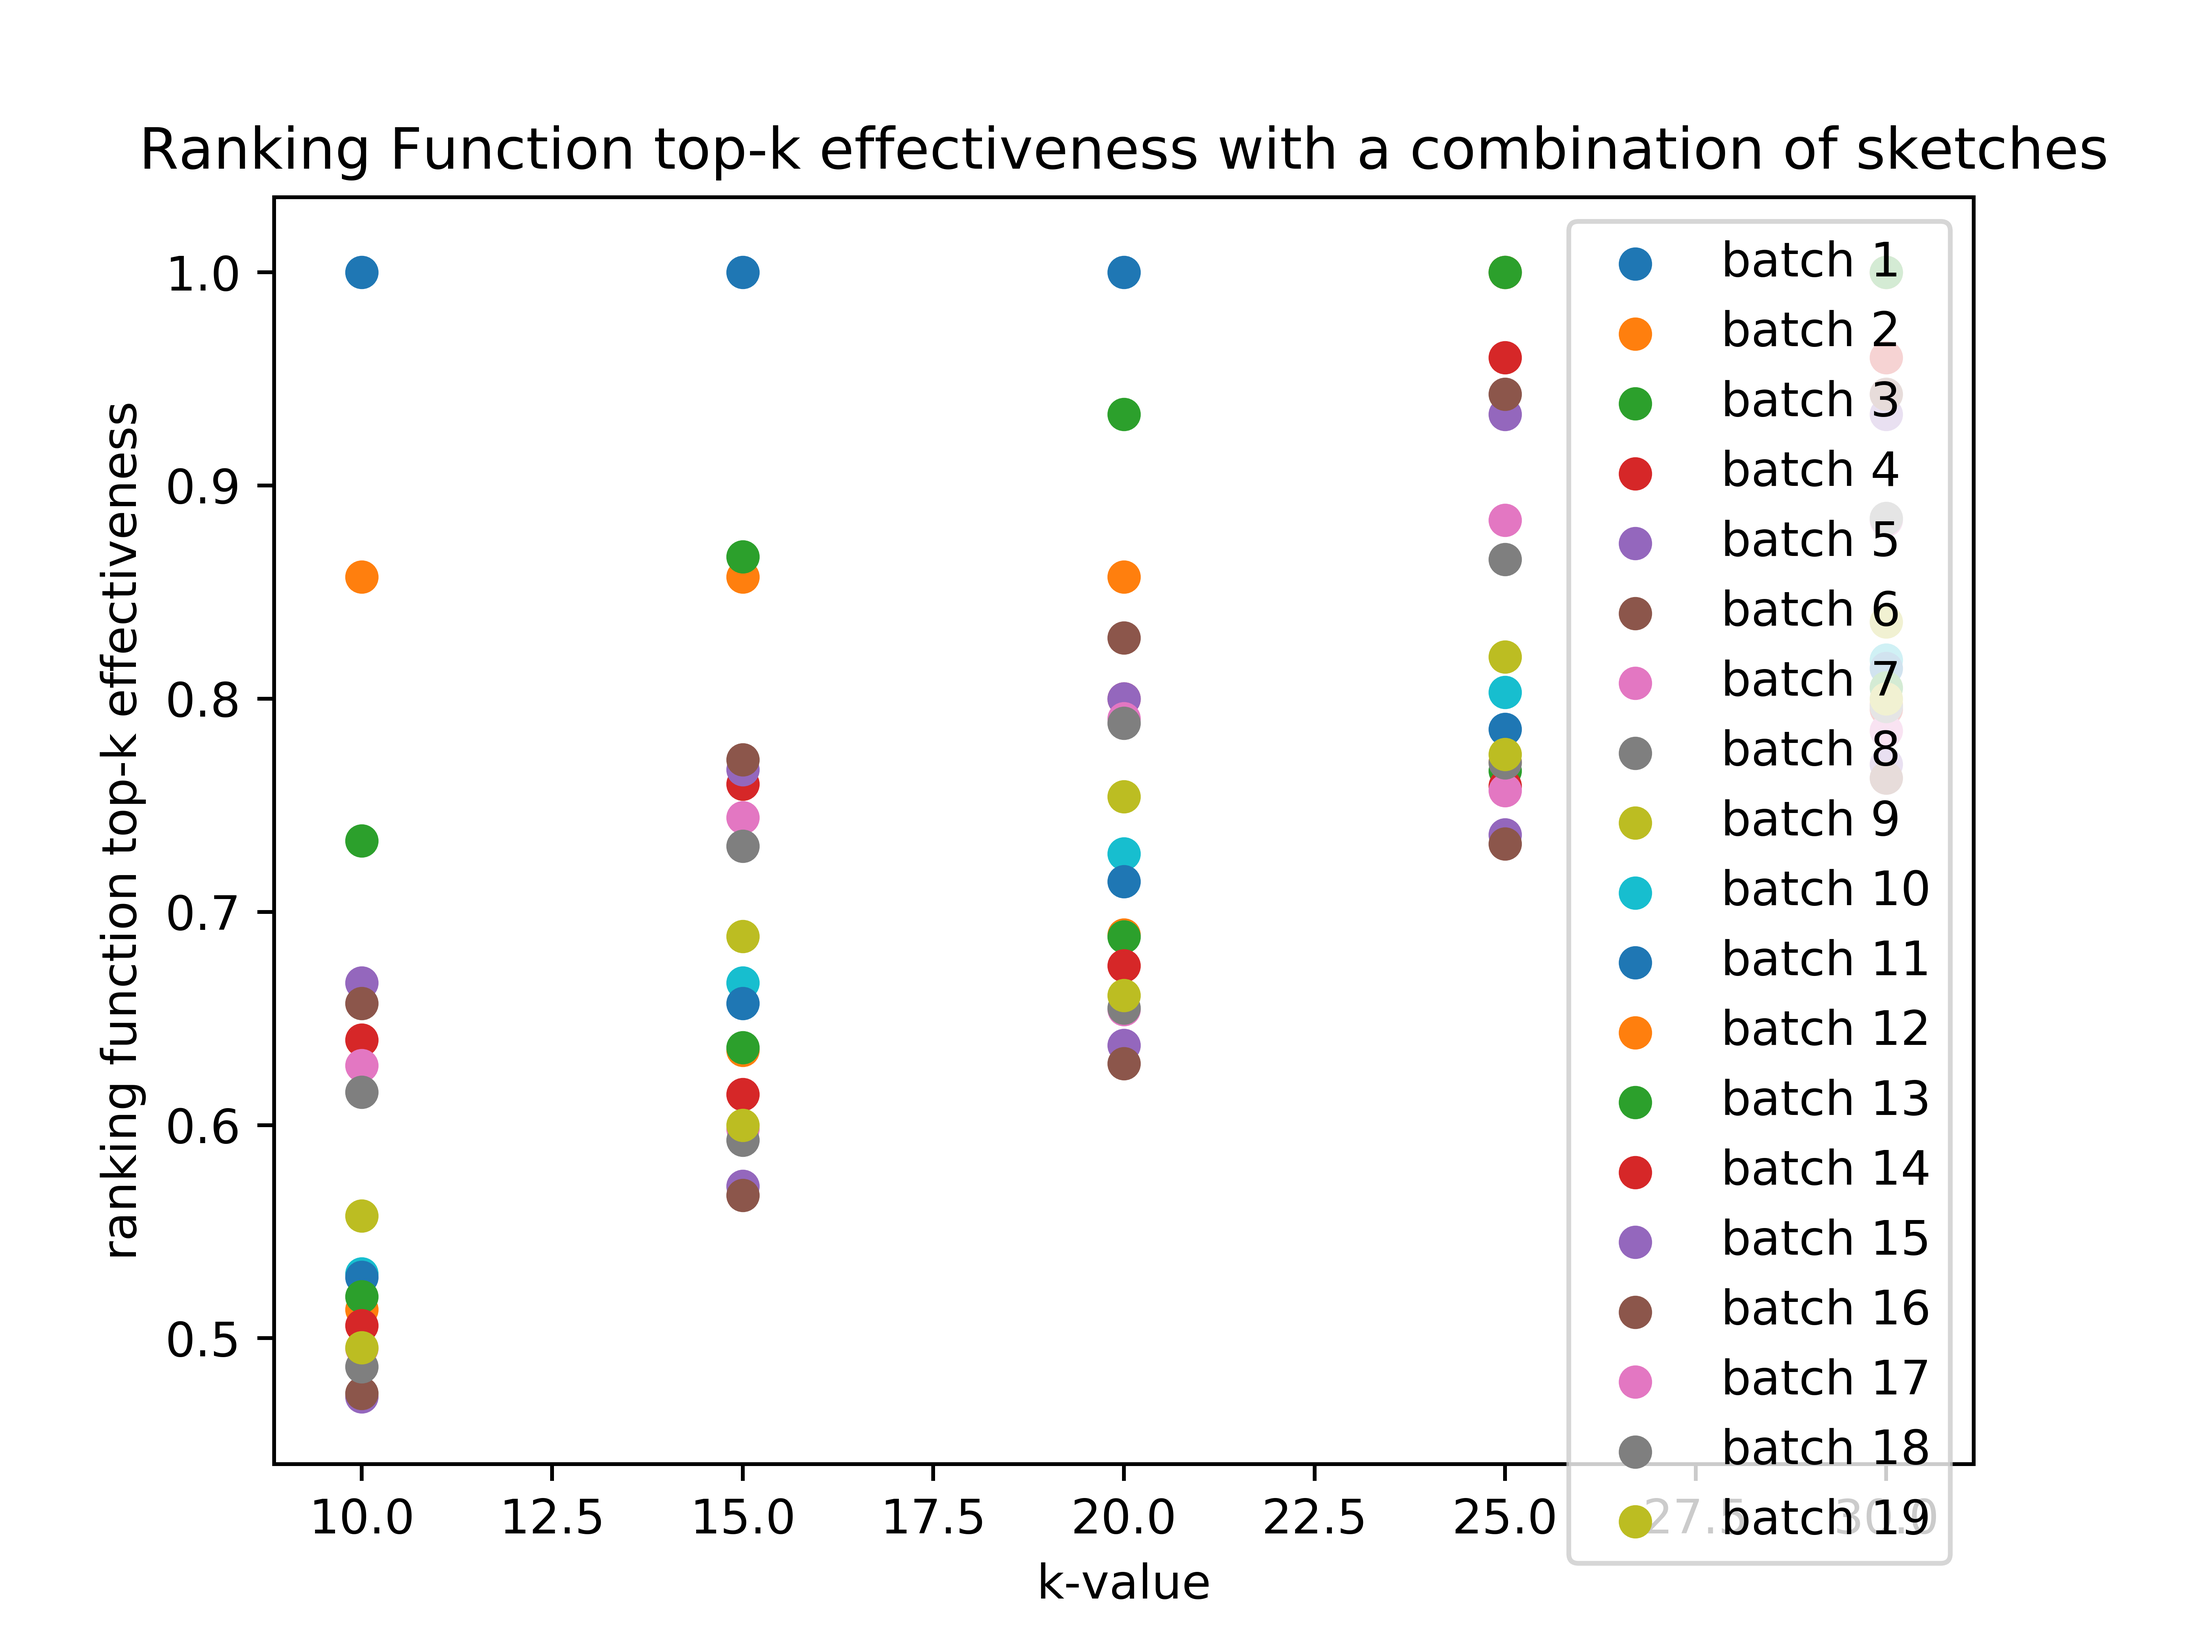
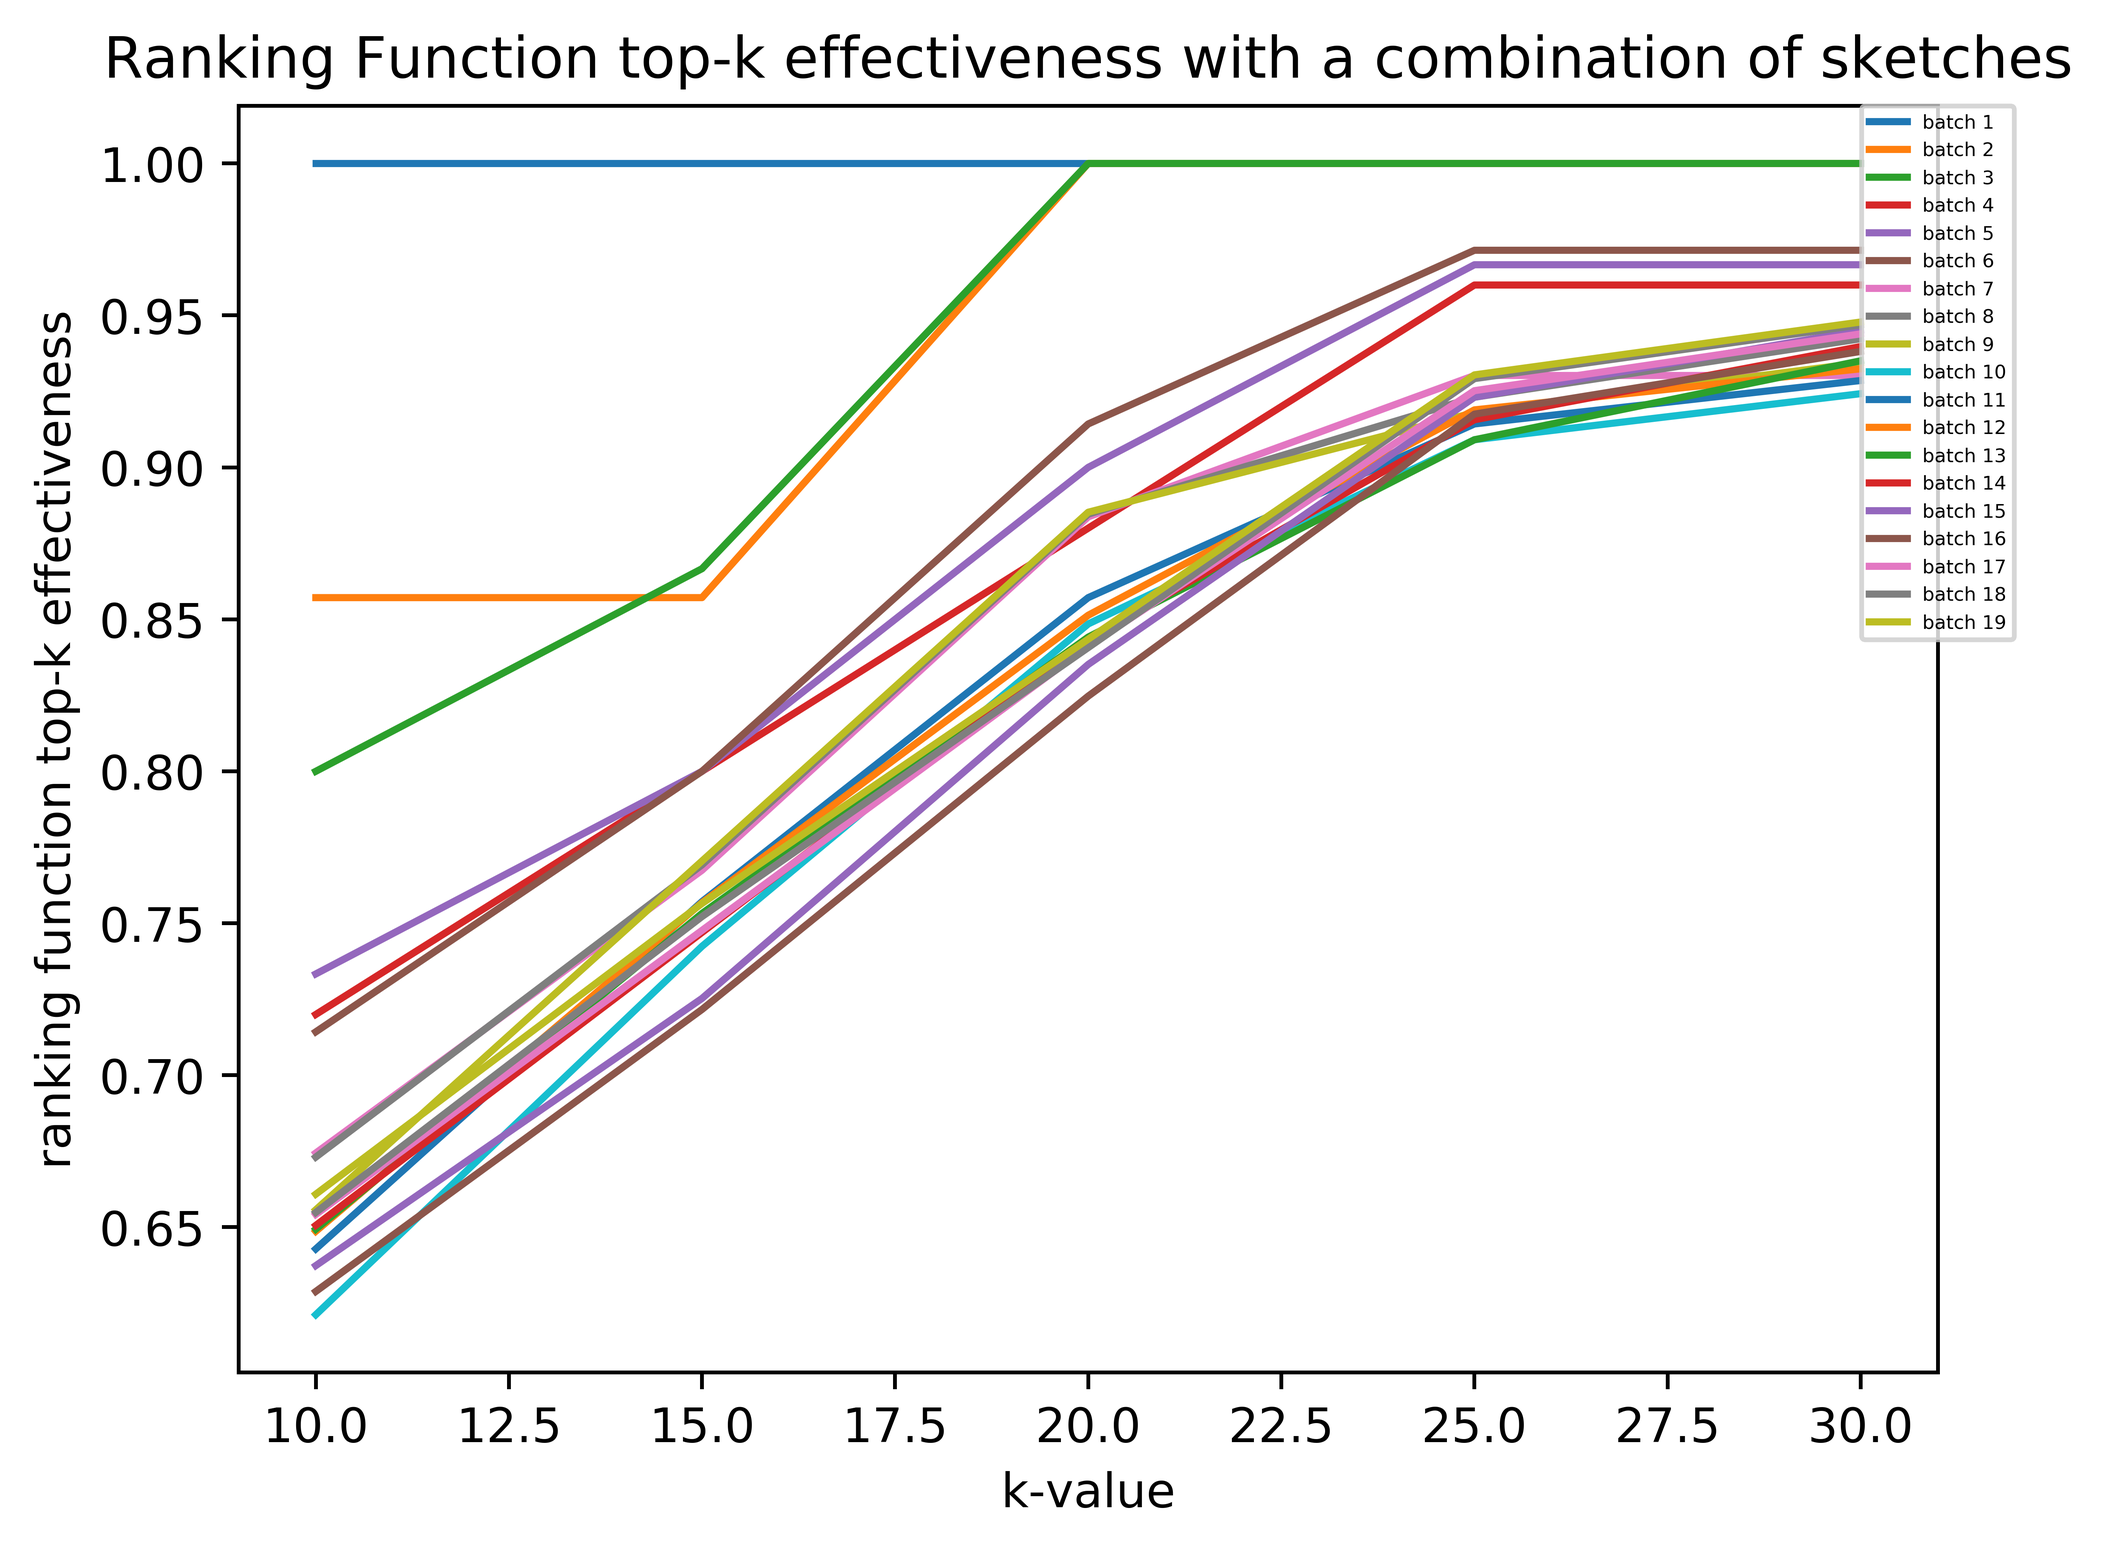
implementing stuff

diff --git a/production_code/plot.py b/production_code/plot.py
@@ -67,7 +67,7 @@ plt.show()
 #plotting multi sketch cosine effectiveness values
 fig1 = plt.figure()
 plt.hold(True)
-ranking_effectiveness_multi_sketch_cosine=  [[1.0, 1.0, 1.0, 1.0, 1.0], [0.8571428571428571, 0.8571428571428571, 0.8571428571428571, 1.0, 1.0], [0.7333333333333333, 0.8666666666666667, 0.9333333333333333, 1.0, 1.0], [0.64, 0.76, 0.8, 0.96, 0.96], [0.6666666666666666, 0.7666666666666667, 0.8, 0.9333333333333333, 0.9333333333333333], [0.6571428571428571, 0.7714285714285715, 0.8285714285714286, 0.9428571428571428, 0.9428571428571428], [0.627906976744186, 0.7441860465116279, 0.7906976744186046, 0.8837209302325582, 0.8837209302325582], [0.6153846153846154, 0.7307692307692307, 0.7884615384615384, 0.8653846153846154, 0.8846153846153846], [0.5573770491803278, 0.6885245901639344, 0.7540983606557377, 0.819672131147541, 0.8360655737704918], [0.5303030303030303, 0.6666666666666666, 0.7272727272727273, 0.803030303030303, 0.8181818181818182], [0.5285714285714286, 0.6571428571428571, 0.7142857142857143, 0.7857142857142857, 0.8142857142857143], [0.5135135135135135, 0.6351351351351351, 0.6891891891891891, 0.7702702702702703, 0.7972972972972973], [0.5194805194805194, 0.6363636363636364, 0.6883116883116883, 0.7662337662337663, 0.8051948051948052], [0.5060240963855421, 0.6144578313253012, 0.6746987951807228, 0.7590361445783133, 0.7951807228915663], [0.4725274725274725, 0.5714285714285714, 0.6373626373626373, 0.7362637362637363, 0.7692307692307693], [0.4742268041237113, 0.5670103092783505, 0.6288659793814433, 0.7319587628865979, 0.7628865979381443], [0.4953271028037383, 0.5981308411214953, 0.6542056074766355, 0.7570093457943925, 0.7850467289719626], [0.48672566371681414, 0.5929203539823009, 0.6548672566371682, 0.7699115044247787, 0.7964601769911505], [0.4956521739130435, 0.6, 0.6608695652173913, 0.7739130434782608, 0.8]]
+ranking_effectiveness_multi_sketch_cosine=  [[1.0, 1.0, 1.0, 1.0, 1.0], [0.8571428571428571, 0.8571428571428571, 1.0, 1.0, 1.0], [0.6666666666666666, 0.8666666666666667, 0.9333333333333333, 0.9333333333333333, 1.0], [0.52, 0.76, 0.84, 0.84, 0.96], [0.5, 0.7333333333333333, 0.8666666666666667, 0.8666666666666667, 0.9666666666666667], [0.45714285714285713, 0.6857142857142857, 0.8571428571428571, 0.8857142857142857, 0.9714285714285714], [0.4418604651162791, 0.6511627906976745, 0.8372093023255814, 0.8604651162790697, 0.9302325581395349], [0.4423076923076923, 0.6153846153846154, 0.7884615384615384, 0.8461538461538461, 0.9230769230769231], [0.4426229508196721, 0.5901639344262295, 0.7377049180327869, 0.8032786885245902, 0.9016393442622951], [0.4090909090909091, 0.5454545454545454, 0.6818181818181818, 0.7727272727272727, 0.8787878787878788], [0.4142857142857143, 0.5428571428571428, 0.6714285714285714, 0.7714285714285715, 0.8857142857142857], [0.4189189189189189, 0.5405405405405406, 0.6621621621621622, 0.7567567567567568, 0.8783783783783784], [0.4155844155844156, 0.5454545454545454, 0.6623376623376623, 0.7532467532467533, 0.8701298701298701], [0.40963855421686746, 0.5301204819277109, 0.6626506024096386, 0.7469879518072289, 0.8554216867469879], [0.4065934065934066, 0.5164835164835165, 0.6373626373626373, 0.7362637362637363, 0.8351648351648352], [0.3917525773195876, 0.5154639175257731, 0.6391752577319587, 0.7319587628865979, 0.8247422680412371], [0.411214953271028, 0.5607476635514018, 0.6728971962616822, 0.7570093457943925, 0.8411214953271028], [0.415929203539823, 0.5663716814159292, 0.6814159292035398, 0.7699115044247787, 0.8495575221238938], [0.40869565217391307, 0.5652173913043478, 0.6782608695652174, 0.7739130434782608, 0.8521739130434782]]
 for array_index in range(0,19):
 	array_to_plot= ranking_effectiveness_multi_sketch_cosine[array_index]
 	plt.plot(k_values,array_to_plot,label='batch '+str(array_index+1))
@@ -83,7 +83,7 @@ plt.show()
 #plotting multi sketch euclidean effectiveness values
 fig1 = plt.figure()
 plt.hold(True)
-ranking_effectiveness_multi_sketch_euclidean=  [[1.0, 1.0, 1.0, 1.0, 1.0], [0.8571428571428571, 0.8571428571428571, 0.8571428571428571, 1.0, 1.0], [0.7333333333333333, 0.8666666666666667, 0.9333333333333333, 1.0, 1.0], [0.64, 0.76, 0.8, 0.96, 0.96], [0.6666666666666666, 0.7666666666666667, 0.8, 0.9333333333333333, 0.9333333333333333], [0.6571428571428571, 0.7714285714285715, 0.8285714285714286, 0.9428571428571428, 0.9428571428571428], [0.627906976744186, 0.7441860465116279, 0.7906976744186046, 0.8837209302325582, 0.8837209302325582], [0.6153846153846154, 0.7307692307692307, 0.7884615384615384, 0.8653846153846154, 0.8846153846153846], [0.5573770491803278, 0.6885245901639344, 0.7540983606557377, 0.819672131147541, 0.8360655737704918], [0.5303030303030303, 0.6666666666666666, 0.7272727272727273, 0.803030303030303, 0.8181818181818182], [0.5285714285714286, 0.6571428571428571, 0.7142857142857143, 0.7857142857142857, 0.8142857142857143], [0.5135135135135135, 0.6351351351351351, 0.6891891891891891, 0.7702702702702703, 0.7972972972972973], [0.5194805194805194, 0.6363636363636364, 0.6883116883116883, 0.7662337662337663, 0.8051948051948052], [0.5060240963855421, 0.6144578313253012, 0.6746987951807228, 0.7590361445783133, 0.7951807228915663], [0.4725274725274725, 0.5714285714285714, 0.6373626373626373, 0.7362637362637363, 0.7692307692307693], [0.4742268041237113, 0.5670103092783505, 0.6288659793814433, 0.7319587628865979, 0.7628865979381443], [0.4953271028037383, 0.5981308411214953, 0.6542056074766355, 0.7570093457943925, 0.7850467289719626], [0.48672566371681414, 0.5929203539823009, 0.6548672566371682, 0.7699115044247787, 0.7964601769911505], [0.4956521739130435, 0.6, 0.6608695652173913, 0.7739130434782608, 0.8]]
+ranking_effectiveness_multi_sketch_euclidean=  [[1.0, 1.0, 1.0, 1.0, 1.0], [0.8571428571428571, 0.8571428571428571, 1.0, 1.0, 1.0], [0.6666666666666666, 0.8, 0.9333333333333333, 0.9333333333333333, 0.9333333333333333], [0.52, 0.72, 0.84, 0.84, 0.92], [0.5, 0.7, 0.8666666666666667, 0.8666666666666667, 0.9333333333333333], [0.45714285714285713, 0.6571428571428571, 0.8571428571428571, 0.8857142857142857, 0.9428571428571428], [0.4418604651162791, 0.627906976744186, 0.8372093023255814, 0.8604651162790697, 0.9069767441860465], [0.4230769230769231, 0.5961538461538461, 0.7884615384615384, 0.8461538461538461, 0.9038461538461539], [0.4262295081967213, 0.5737704918032787, 0.7377049180327869, 0.8032786885245902, 0.8852459016393442], [0.3939393939393939, 0.5303030303030303, 0.6818181818181818, 0.7575757575757576, 0.8636363636363636], [0.4, 0.5285714285714286, 0.6714285714285714, 0.7571428571428571, 0.8714285714285714], [0.40540540540540543, 0.527027027027027, 0.6621621621621622, 0.7432432432432432, 0.8648648648648649], [0.4025974025974026, 0.5324675324675324, 0.6623376623376623, 0.7402597402597403, 0.8571428571428571], [0.39759036144578314, 0.5301204819277109, 0.6626506024096386, 0.7349397590361446, 0.8433734939759037], [0.38461538461538464, 0.5164835164835165, 0.6483516483516484, 0.7142857142857143, 0.8241758241758241], [0.3711340206185567, 0.5257731958762887, 0.6494845360824743, 0.711340206185567, 0.8144329896907216], [0.3925233644859813, 0.5700934579439252, 0.6822429906542056, 0.7383177570093458, 0.8317757009345794], [0.39823008849557523, 0.584070796460177, 0.6902654867256637, 0.7522123893805309, 0.8407079646017699], [0.391304347826087, 0.5826086956521739, 0.6956521739130435, 0.7565217391304347, 0.8434782608695652]]
 for array_index in range(0,19):
 	array_to_plot= ranking_effectiveness_multi_sketch_euclidean[array_index]
 	plt.plot(k_values,array_to_plot,label='batch '+str(array_index+1))
@@ -99,7 +99,7 @@ plt.show()
 #plotting combined sketching effectiveness values
 fig1 = plt.figure()
 plt.hold(True)
-combined_ranking_effectiveness=  [[1.0, 1.0, 1.0, 1.0, 1.0], [0.8571428571428571, 0.8571428571428571, 0.8571428571428571, 1.0, 1.0], [0.7333333333333333, 0.8666666666666667, 0.9333333333333333, 1.0, 1.0], [0.64, 0.76, 0.8, 0.96, 0.96], [0.6666666666666666, 0.7666666666666667, 0.8, 0.9333333333333333, 0.9333333333333333], [0.6571428571428571, 0.7714285714285715, 0.8285714285714286, 0.9428571428571428, 0.9428571428571428], [0.627906976744186, 0.7441860465116279, 0.7906976744186046, 0.8837209302325582, 0.8837209302325582], [0.6153846153846154, 0.7307692307692307, 0.7884615384615384, 0.8653846153846154, 0.8846153846153846], [0.5573770491803278, 0.6885245901639344, 0.7540983606557377, 0.819672131147541, 0.8360655737704918], [0.5303030303030303, 0.6666666666666666, 0.7272727272727273, 0.803030303030303, 0.8181818181818182], [0.5285714285714286, 0.6571428571428571, 0.7142857142857143, 0.7857142857142857, 0.8142857142857143], [0.5135135135135135, 0.6351351351351351, 0.6891891891891891, 0.7702702702702703, 0.7972972972972973], [0.5194805194805194, 0.6363636363636364, 0.6883116883116883, 0.7662337662337663, 0.8051948051948052], [0.5060240963855421, 0.6144578313253012, 0.6746987951807228, 0.7590361445783133, 0.7951807228915663], [0.4725274725274725, 0.5714285714285714, 0.6373626373626373, 0.7362637362637363, 0.7692307692307693], [0.4742268041237113, 0.5670103092783505, 0.6288659793814433, 0.7319587628865979, 0.7628865979381443], [0.4953271028037383, 0.5981308411214953, 0.6542056074766355, 0.7570093457943925, 0.7850467289719626], [0.48672566371681414, 0.5929203539823009, 0.6548672566371682, 0.7699115044247787, 0.7964601769911505], [0.4956521739130435, 0.6, 0.6608695652173913, 0.7739130434782608, 0.8]]
+combined_ranking_effectiveness=  [[1.0, 1.0, 1.0, 1.0, 1.0], [0.8571428571428571, 0.8571428571428571, 1.0, 1.0, 1.0], [0.8, 0.8666666666666667, 1.0, 1.0, 1.0], [0.72, 0.8, 0.88, 0.96, 0.96], [0.7333333333333333, 0.8, 0.9, 0.9666666666666667, 0.9666666666666667], [0.7142857142857143, 0.8, 0.9142857142857143, 0.9714285714285714, 0.9714285714285714], [0.6744186046511628, 0.7674418604651163, 0.8837209302325582, 0.9302325581395349, 0.9302325581395349], [0.6730769230769231, 0.7692307692307693, 0.8846153846153846, 0.9230769230769231, 0.9423076923076923], [0.6557377049180327, 0.7704918032786885, 0.8852459016393442, 0.9180327868852459, 0.9344262295081968], [0.6212121212121212, 0.7424242424242424, 0.8484848484848485, 0.9090909090909091, 0.9242424242424242], [0.6428571428571429, 0.7571428571428571, 0.8571428571428571, 0.9142857142857143, 0.9285714285714286], [0.6486486486486487, 0.7567567567567568, 0.8513513513513513, 0.918918918918919, 0.9324324324324325], [0.6493506493506493, 0.7532467532467533, 0.8441558441558441, 0.9090909090909091, 0.935064935064935], [0.6506024096385542, 0.7469879518072289, 0.8433734939759037, 0.9156626506024096, 0.9397590361445783], [0.6373626373626373, 0.7252747252747253, 0.8351648351648352, 0.9230769230769231, 0.945054945054945], [0.6288659793814433, 0.7216494845360825, 0.8247422680412371, 0.9175257731958762, 0.9381443298969072], [0.6542056074766355, 0.7476635514018691, 0.8411214953271028, 0.9252336448598131, 0.9439252336448598], [0.6548672566371682, 0.7522123893805309, 0.8407079646017699, 0.9292035398230089, 0.9469026548672567], [0.6608695652173913, 0.7565217391304347, 0.8434782608695652, 0.9304347826086956, 0.9478260869565217]]
 for array_index in range(0,19):
 	array_to_plot= combined_ranking_effectiveness[array_index]
 	plt.plot(k_values,array_to_plot,label='batch '+str(array_index+1))
